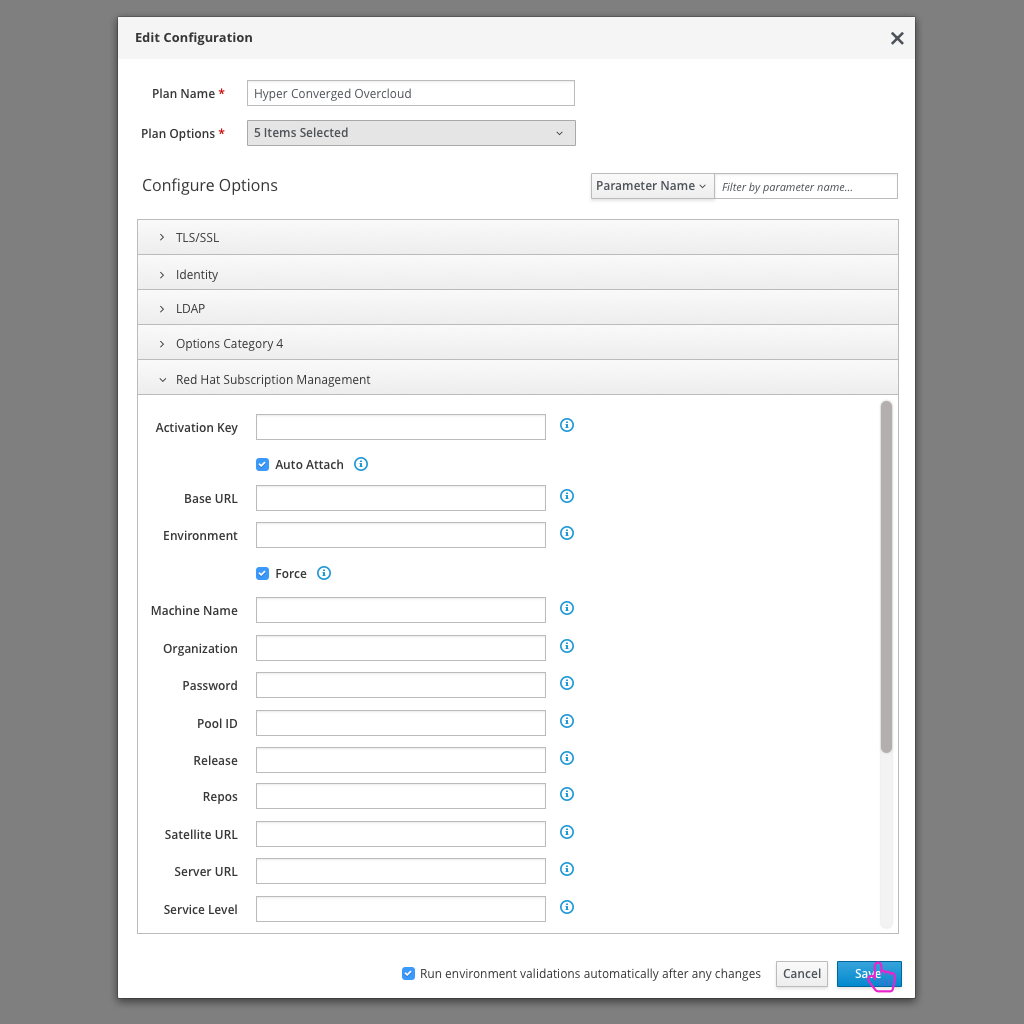
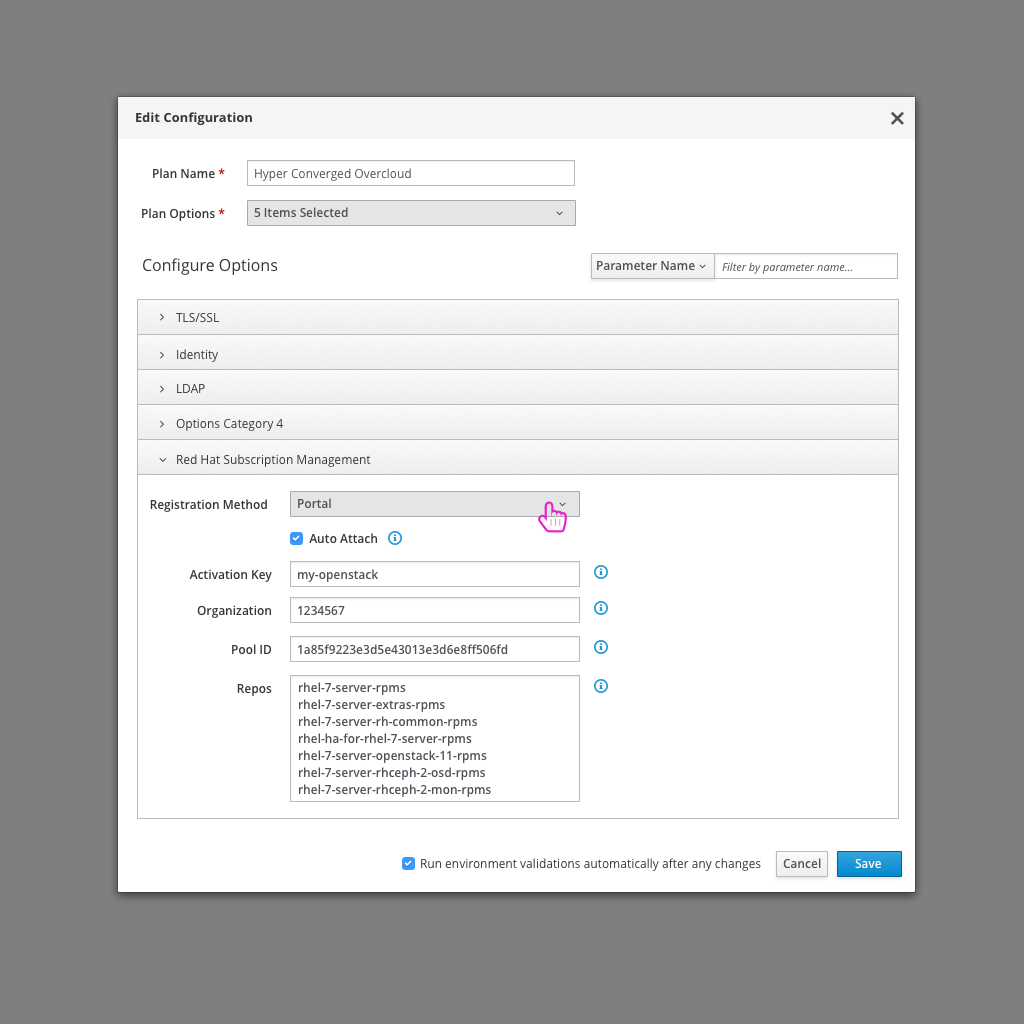
Updating Subscription Management design to include a selection of "Registration Method"
This would make the RHSM parameters much more applicable when the user is filling them out based on the Registration Method they want to use (Portal, Sat 6, Sat 5)

diff --git a/tripleo-ui/5-popular-use-cases/4.SubscriptionManagerRegistration.md b/tripleo-ui/5-popular-use-cases/4.SubscriptionManagerRegistration.md
@@ -22,3 +22,8 @@ Today in the TripleO UI, the user needs to enable RHSM by searching for the corr
 
 ![editconfigurationmodal2](img/Subscription-Manager-Edit_Configuration_Modal2.png)
 - At this point, there would be a section for Red Hat Subscription Manager where the user would be able to see all of the parameters in one clear section. All of the parameters can be seen here: https://github.com/openstack/tripleo-heat-templates/blob/677f9e8198635b3eb564f1495f2e10a4c5fe11bf/extraconfig/pre_deploy/rhel-registration/environment-rhel-registration.yaml
+- Ideally, the user could choose the subscription method (Portal, Sat 6, Sat 5) and then be presented with the applicable configuration parameters based on this selection.
+
+![editconfigurationmodal3](img/Subscription-Manager-Edit_Configuration_Modal3.png)
+
+![editconfigurationmodal4](img/Subscription-Manager-Edit_Configuration_Modal4.png)
